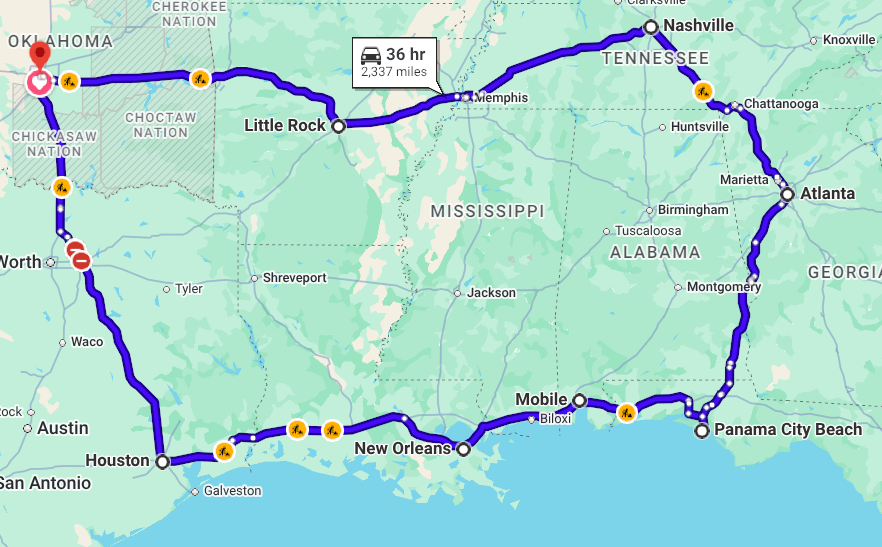
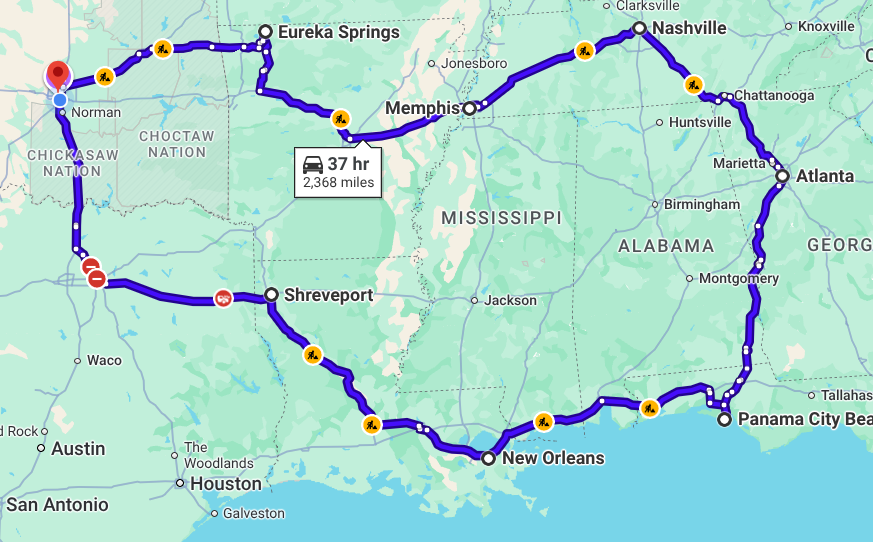
added new map and adjusted index.

diff --git a/index.html b/index.html
@@ -431,11 +431,22 @@
 
       .img-container-map {
         width: 100%;
-        height: 400px;
+        height: 100%;
         overflow: hidden;
         margin: 3.5rem 0;
         border-radius: var(--radius-md);
-        box-shadow: 0 10px 30px rgba(0, 0, 0, 0.02);
+      }
+
+      .img-container-map a:hover img {
+        opacity: 0.9;
+        transition: opacity 0.2s ease-in-out;
+        cursor: zoom-in;
+      }
+
+      .responsive-map {
+        max-width: 100%;
+        height: auto;
+        display: block;
       }
 
       .wishlist-stars {
@@ -616,7 +627,8 @@
           gap: 1.5rem;
         }
         .img-container-map {
-          height: 280px;
+          height: auto;
+          width: 100%;
           margin: 2rem 0;
         }
         .palette-swatches {
@@ -747,7 +759,7 @@
         <h2>Wedding Attire</h2>
         <hr class="section-divider" />
         <p>
-          If you dare to join in on the fun, the colors are moss green and blush
+          If you care to join in on the fun, the colors are moss green and blush
           pink, and we like to think of the attire as “Sunday” dress. For men,
           button-downs, jeans, maybe even a nice pair of cowboy boots! Ladies,
           feel free to wear a dress, or you could rock the jeans and blouse!
@@ -778,11 +790,13 @@
         </p>
 
         <div class="img-container-map">
-          <img
-            src="images/map.png"
-            alt="Honeymoon Road Trip Route Map"
-            class="wedding-photo"
-          />
+          <a href="images/map.png" target="_blank" rel="noopener noreferrer">
+            <img
+              src="images/map.png"
+              alt="Honeymoon Road Trip Route Map"
+              class="wedding-photo responsive-map"
+            />
+          </a>
         </div>
 
         <p>
@@ -818,7 +832,7 @@
           <li>
             Airbnb Gift Cards & Hotel Stays
             <span class="subtext"
-              >(Florida: 6/26 - 6/28, Nashville: 6/30 - 7/2)</span
+              >(Panama City Beach: 6/27 - 6/29, Nashville: 7/1 - 7/2)</span
             >
           </li>
           <li>
@@ -830,8 +844,8 @@
         </ul>
 
         <div class="qr-container">
-          <p class="qr-label">Scan to donate via CashApp</p>
-          <a href="cashme://cash.app/$hackneysack">
+          <p class="qr-label">Scan or tap to donate via CashApp</p>
+          <a href="https://cash.app/$hackneysack">
             <img
               src="images/cashapp2.svg"
               alt="CashApp QR Code"
@@ -839,6 +853,57 @@
             />
           </a>
         </div>
+
+        <p class="mailing-address-label">
+          Physical gift cards can be brought to the wedding or mailed to:
+        </p>
+        <p class="mailing-address">
+          <strong>9504 S Shartel, OKC OK, 73139.</strong>
+        </p>
+
+        <p>
+          We intend to travel in this loop along I-10 East to Florida, and then
+          I-40 West as we return to OKC - with MANY stops along the way:
+        </p>
+
+        <ul class="wishlist-stars">
+          <li>
+            OKC → Dallas (2 nights, TexMex):
+            <span class="subtext">6/22/27 - 6/23/27</span>
+          </li>
+          <li>
+            Dallas → Shreveport (1 night, ???):
+            <span class="subtext">6/24/27</span>
+          </li>
+          <li>
+            Shreveport → New Orleans (2 nights, Cajun):
+            <span class="subtext">6/25/27 - 6/26/27</span>
+          </li>
+          <li>
+            New Orleans → Panama City Beach (3 nights, Seafood):
+            <span class="subtext">6/27/27 - 6/29/27</span>
+          </li>
+          <li>
+            Panama City Beach → Atlanta (1 night, ???):
+            <span class="subtext">6/30/27</span>
+          </li>
+          <li>
+            Atlanta → Nashville (2 nights, Fried Chicken):
+            <span class="subtext">7/1/27 - 7/2/27</span>
+          </li>
+          <li>
+            Nashville → Memphis (1 night, ???):
+            <span class="subtext">7/3/27</span>
+          </li>
+          <li>
+            Memphis → Eureka Springs (1 night, ???):
+            <span class="subtext">7/4/27</span>
+          </li>
+          <li>
+            Eureka Springs → OKC:
+            <span class="subtext">7/5/27</span>
+          </li>
+        </ul>
 
         <div class="registry-links">
           <a href="https://cash.app/$hackneysack" class="registry-btn"
